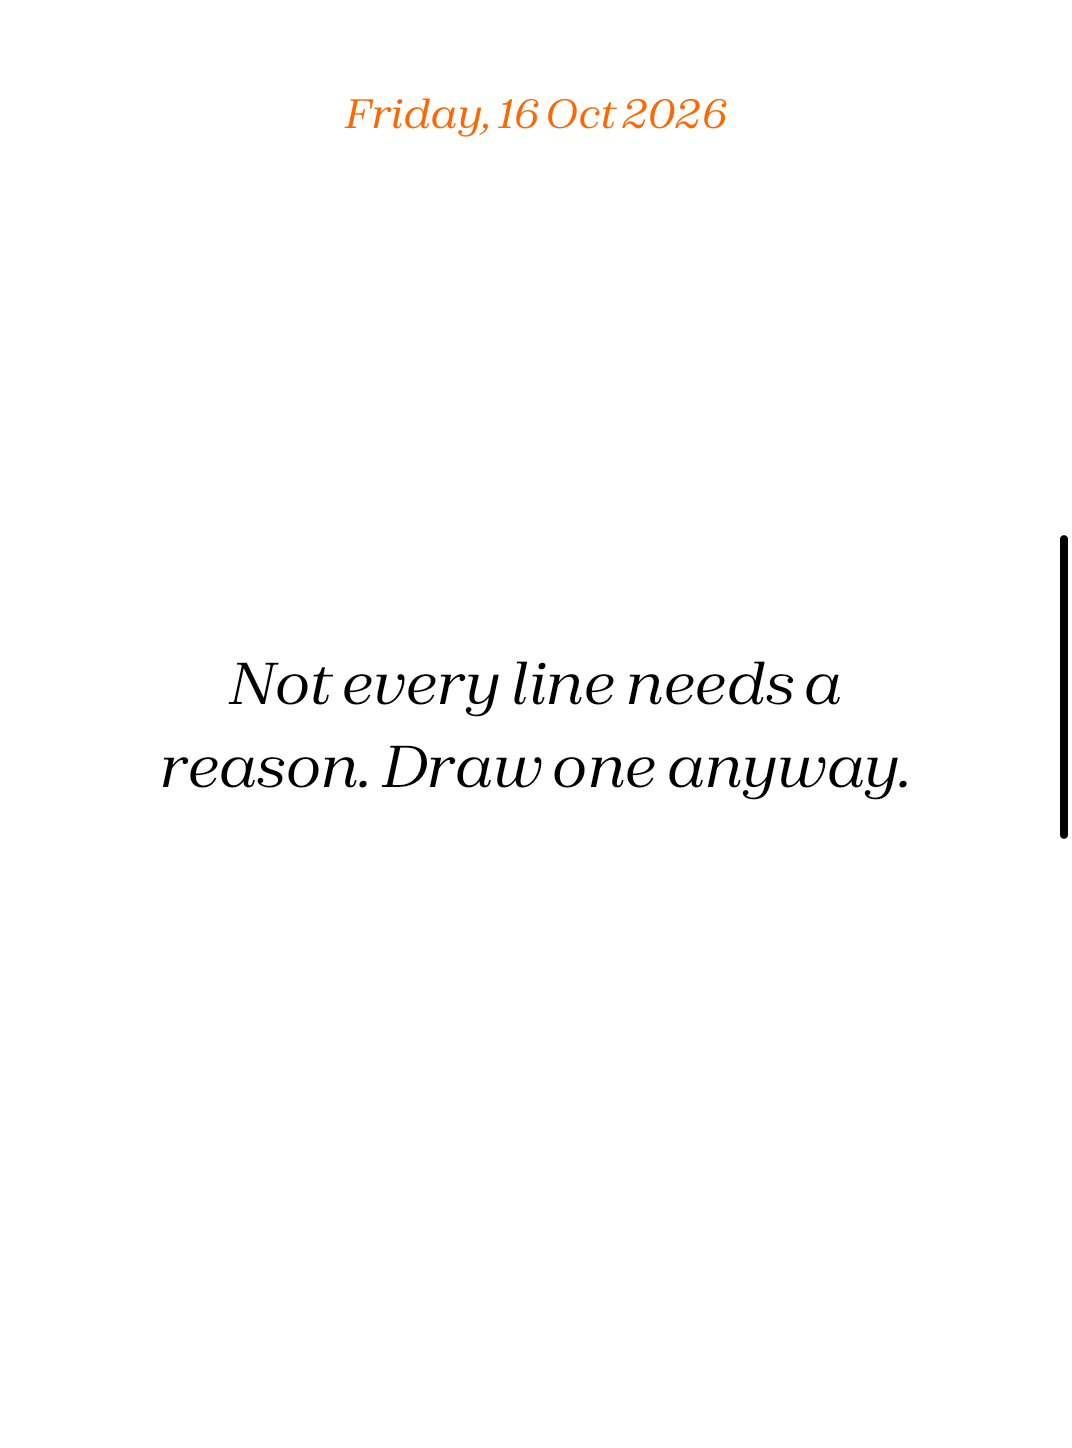
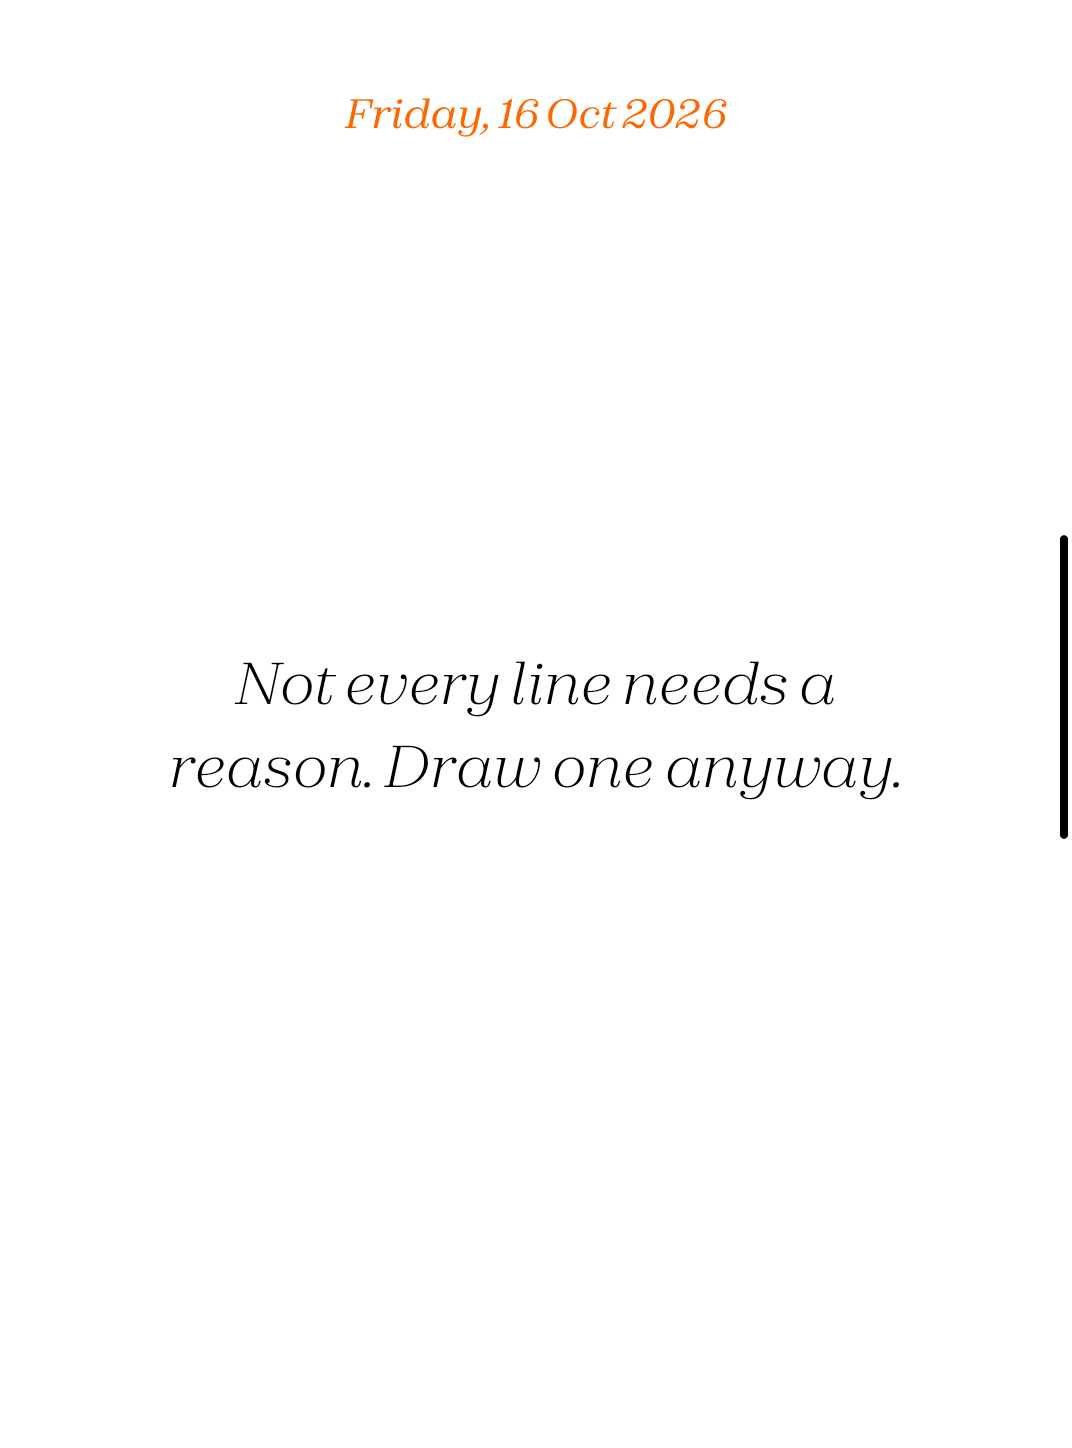
Bold app name in About, light italic koans; retake the screenshots

Changed region(s): [[0.1539, 0.4351, 0.8619, 0.5594], [0.4618, 0.5283, 0.4925, 0.5594], [0.4002, 0.5283, 0.431, 0.5594]]

diff --git a/app/src/main/java/com/bomberstudios/undia/MainActivity.kt b/app/src/main/java/com/bomberstudios/undia/MainActivity.kt
@@ -134,6 +134,7 @@ class MainActivity : Activity() {
     private fun buildAboutCard(dp: Float): LinearLayout {
         val zodiak = resources.getFont(R.font.zodiak)
         val zodiakItalic = resources.getFont(R.font.zodiak_italic)
+        val zodiakBold = resources.getFont(R.font.zodiak_bold)
         fun text(value: String, sizeSp: Float, gravity: Int, topDp: Int, color: Int = Color.BLACK, face: Typeface = zodiak) =
             TextView(this).apply {
                 text = value
@@ -162,7 +163,7 @@ class MainActivity : Activity() {
                 setImageDrawable(getDrawable(R.mipmap.ic_launcher))
                 contentDescription = "undia icon"
             }, LinearLayout.LayoutParams((88 * dp).toInt(), (88 * dp).toInt()).apply { gravity = Gravity.CENTER_HORIZONTAL })
-            addView(text("undia", 28f, Gravity.CENTER, 8))
+            addView(text("undia", 28f, Gravity.CENTER, 8, face = zodiakBold))
             addView(text("The notebook that does LESS", 17f, Gravity.CENTER, 0, face = zodiakItalic))
             addView(text("Version $version · built ${BuildConfig.BUILD_DATE}", 14f, Gravity.CENTER, 6, Color.rgb(0x44, 0x44, 0x44)))
             addView(text("undia is a half notebook, half philosophy manifesto:", 17f, Gravity.CENTER, 18))

diff --git a/app/src/main/java/com/bomberstudios/undia/UndiaView.kt b/app/src/main/java/com/bomberstudios/undia/UndiaView.kt
@@ -648,7 +648,7 @@ class UndiaView(context: Context) : SurfaceView(context) {
 
     private val koanPaint = TextPaint(Paint.ANTI_ALIAS_FLAG).apply {
         color = Color.BLACK
-        typeface = resources.getFont(R.font.zodiak_italic)
+        typeface = resources.getFont(R.font.zodiak_light_italic)
         fontFeatureSettings = "onum" // old-style figures, when the font has them
         letterSpacing = -0.02f // em; a little tighter than the font default
     }
@@ -656,6 +656,7 @@ class UndiaView(context: Context) : SurfaceView(context) {
     private val datePaint = TextPaint(koanPaint).apply {
         textAlign = Paint.Align.CENTER
         color = DATE_COLOR
+        typeface = resources.getFont(R.font.zodiak_italic) // the date stays regular italic; only the koans are light
     }
     private val dateFormat = DateTimeFormatter.ofPattern("EEEE, d MMM yyyy")
 
